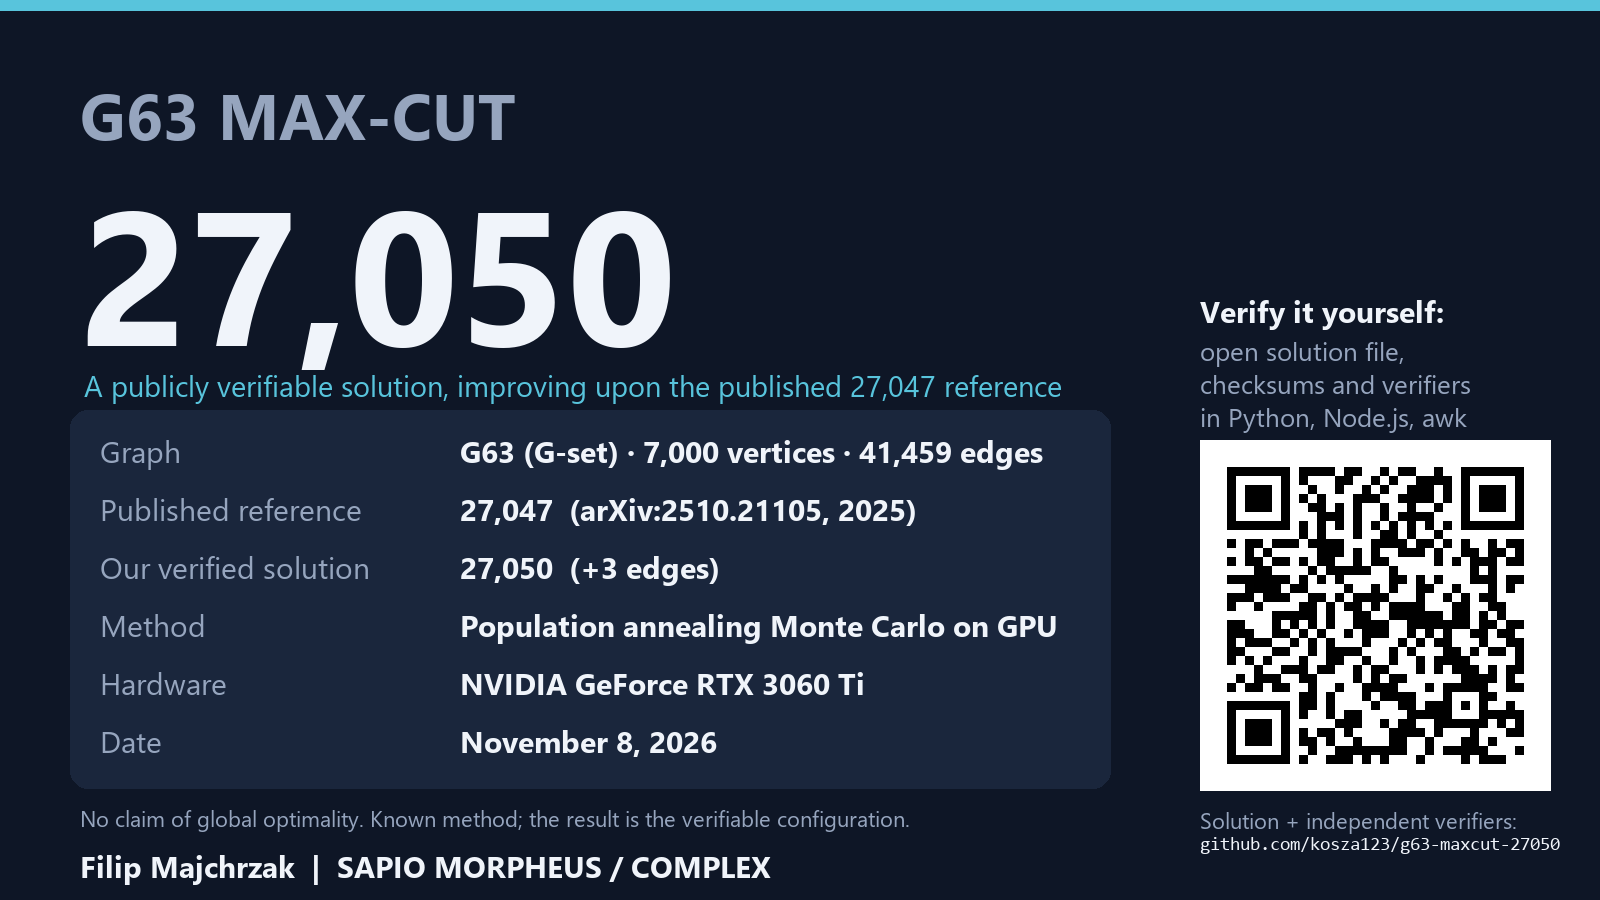
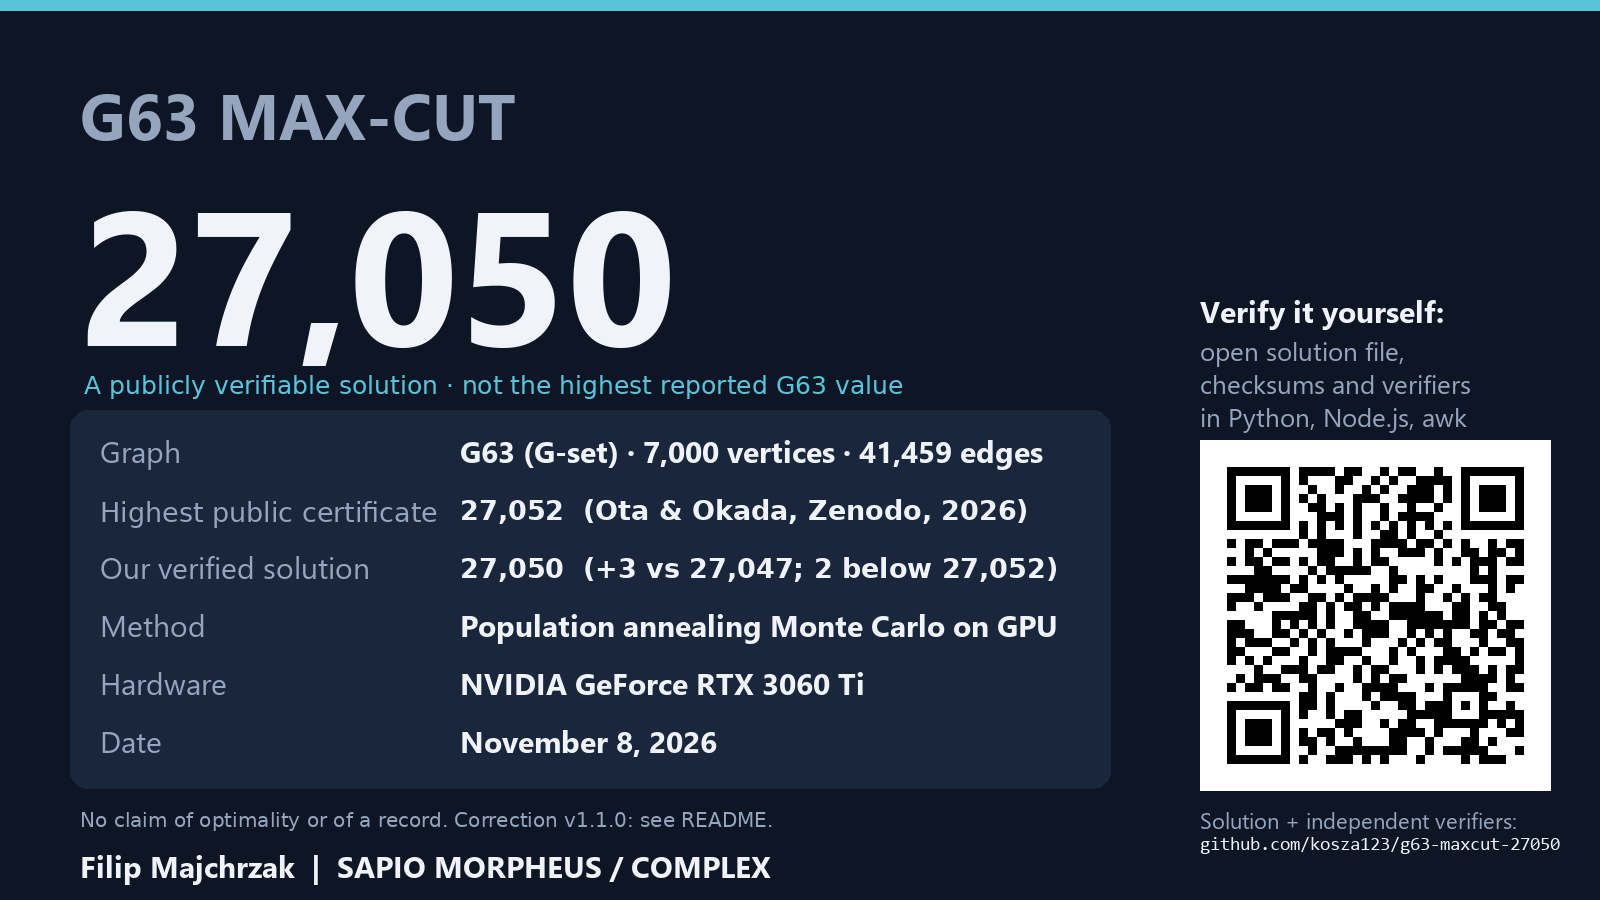
Correction v1.1.0: 27,050 is not the highest reported G63 value
Version 1.0.0 described 27,050 as an improvement on the published 27,047
reference and stated that every verifiable primary source listed at most
27,047 for G63. That was wrong: R. Ota and M. Okada published an explicit,
publicly verifiable configuration with cut value 27,052 on Zenodo on
23 March 2026 (doi:10.5281/zenodo.19189885). Reports of 27,052 for the
Fujitsu Digital Annealer (2020) and of 27,051 (2026) were pointed out by
other researchers; they are cited but marked as not verified by us.

Updates README, CITATION.cff, .zenodo.json, the preprint draft, the
graphic and results/STRUCTURE.md. The solution files, checksums and
verifiers are unchanged.

Claude-Session: https://claude.ai/code/session_0144bPPJ2WnHPmbzHaLsk2ow

diff --git a/paper/main.tex b/paper/main.tex
@@ -15,8 +15,11 @@
 \maketitle
 
 \begin{abstract}
-We report a Max-Cut configuration of value 27,050 for the G-set instance G63 (7,000 vertices, 41,459 unit-weight edges),
-improving upon the published reference value of 27,047. The configuration was found with population annealing Monte Carlo,
+We report a Max-Cut configuration of value 27,050 for the G-set instance G63 (7,000 vertices, 41,459 unit-weight edges).
+It exceeds the 27,047 configuration of Khan and Shukla but is not the highest reported value: an explicit public configuration of
+value 27,052 was published by Ota and Okada in March 2026, and an earlier report of 27,052 for the Fujitsu Digital Annealer has been
+pointed out to us.
+The configuration was found with population annealing Monte Carlo,
 a known method, implemented for a single consumer GPU (NVIDIA GeForce RTX 3060 Ti), 158.5 minutes into a seven-hour experiment.
 The complete partition, checksums and dependency-free verifiers are publicly available, so the value can be checked
 independently in under a second. Relative to the published 27,047 configuration, the new solution differs by a single connected
@@ -31,10 +34,14 @@ Max-Cut heuristics~\cite{benlic2013,shylo2015}. Instance G63 has 7,000 vertices 
 unit weights; it is one of the two G-set instances with the largest number of edges. For about a decade the best reported cut for G63
 was 27,045, attributed to global equilibrium search~\cite{shylo2015}. In 2025, Khan and Shukla reported 27,047 with a GPU-accelerated
 population annealing framework and published the corresponding configuration~\cite{khan2025}; a later preprint by the same group again
-lists 27,047 as the best value it achieved for G63~\cite{khan2026}.
+lists 27,047 as the best value it achieved for G63~\cite{khan2026}. In March 2026, however, Ota and Okada published an explicit,
+publicly verifiable configuration of value 27,052~\cite{otaokada2026}. Other researchers have pointed us to an earlier report of 27,052
+for the Fujitsu Digital Annealer~\cite{matsubara2020,takemoto2021}, without a published configuration, and to a report of
+27,051~\cite{ju2026}; we have not been able to verify these two values in the full texts.
 
-Here we present a configuration of value 27,050. Our contribution is computational: a verifiable configuration that exceeds the
-published reference, obtained with a standard method on consumer hardware, together with the data needed to check it.
+Here we present a configuration of value 27,050, found independently from random initial states. Our contribution is computational
+and modest: an independently found, verifiable configuration above 27,047, obtained with a standard method on consumer hardware,
+together with the data needed to check it. It is not a new best-known value.
 
 \section{The configuration and its verification}
 The partition is given as a string of 7,000 characters \texttt{0}/\texttt{1}, character $k$ being the side of vertex $k+1$ in the
@@ -106,9 +113,11 @@ during the run; we did not compare solvers on equal hardware. Population anneali
 in~\cite{khan2025} (runs that produced their best cut typically ran 8--24 hours on an RTX A6000) are run lengths under different
 settings, not comparable with our anneal times; no equal-hardware or equal-time comparison was made. We make no claim that 27,050 is optimal.
 
-All primary sources we could verify list at most 27,047 for G63~\cite{khan2025,khan2026}. A secondary aggregator page has been
-described in search-engine snippets as mentioning a value of 27,052; we could not access that page or locate a primary source or
-configuration. If such a configuration exists, it exceeds the value reported here.
+\paragraph{Correction to the first version of this draft.} An earlier version stated that all verifiable primary sources list at most
+27,047 for G63. That was incorrect: the explicit configuration of Ota and Okada~\cite{otaokada2026} has value 27,052 and is the highest
+publicly verifiable value known to us; we have also been pointed to reports of 27,052 for the Fujitsu Digital
+Annealer~\cite{matsubara2020,takemoto2021} and of 27,051 in~\cite{ju2026}. The Fujitsu and 27,051 reports were pointed out to us by K.~Zick and N.~Shukla; we have not been able to read
+these values in the full texts ourselves.
 
 \section*{Data availability}
 The partition, checksums, verifiers, verification log and methodology are archived on Zenodo,
@@ -120,7 +129,7 @@ tools and a first draft of this manuscript were produced with an AI assistant (C
 under the author's direction; three of the independent recounts were written by separate AI-agent instances without access to the
 search code. The author is responsible for the content.
 
-\begin{thebibliography}{9}
+\begin{thebibliography}{99}
 \bibitem{helmberg2000} C. Helmberg and F. Rendl, A spectral bundle method for semidefinite programming, \emph{SIAM Journal on Optimization} 10(3):673--696, 2000.
 \bibitem{gset} G-set Max-Cut test graphs, collection hosted by Y. Ye, Stanford University, \url{https://web.stanford.edu/~yyye/yyye/Gset/} (accessed November 2026).
 \bibitem{benlic2013} U. Benlic and J.-K. Hao, Breakout local search for the max-cut problem, \emph{Engineering Applications of Artificial Intelligence} 26(3):1162--1173, 2013.
@@ -130,5 +139,9 @@ search code. The author is responsible for the content.
 \bibitem{wang2015} W. Wang, J. Machta and H. G. Katzgraber, Population annealing: Theory and application in spin glasses, \emph{Physical Review E} 92:063307, 2015.
 \bibitem{khan2025} N. Khan and N. Shukla, New best-known Max-Cut solution for the G63 instance in the G-set benchmark, arXiv:2510.21105, 2025.
 \bibitem{khan2026} N. Khan, R. Redding and N. Shukla, Leveraging population dynamics to steer efficient search in large-scale combinatorial optimization, arXiv:2606.25203, 2026.
+\bibitem{matsubara2020} S. Matsubara, M. Takatsu, T. Miyazawa, T. Shibasaki, Y. Watanabe, K. Takemoto and H. Tamura, Digital annealer for high-speed solving of combinatorial optimization problems and its applications, in \emph{Proc. 25th Asia and South Pacific Design Automation Conference (ASP-DAC)}, pp.~667--672, IEEE, 2020, doi:10.1109/ASP-DAC47756.2020.9045100.
+\bibitem{takemoto2021} K. Takemoto, S. Matsubara, Y. Watanabe, D. Shimada, T. Kurita and H. Tamura, ``Digital Annealer'' technology for efficiently solving combinatorial optimization problems and its applications in manufacturing and materials science (in Japanese), \emph{IEICE Transactions on Electronics (Japanese Edition)} J104-C(4):101--109, 2021, doi:10.14923/transelej.2020jci0010.
+\bibitem{otaokada2026} R. Ota and M. Okada, An explicit public certificate for G63 with cut value 27,052, Zenodo, 23 March 2026, doi:10.5281/zenodo.19189885.
+\bibitem{ju2026} H. Ju, J. Seol, S. Choi and S. Hong, Hardware acceleration of probabilistic computing for Max-Cut problems, \emph{IEEE Access} 14:132813--132824, 2026, doi:10.1109/ACCESS.2026.3727846.
 \end{thebibliography}
 \end{document}

diff --git a/README.md b/README.md
@@ -2,7 +2,14 @@
 
 [![DOI](https://zenodo.org/badge/DOI/10.5281/zenodo.24049667.svg)](https://doi.org/10.5281/zenodo.24049667)
 
-**A publicly verifiable G63 Max-Cut solution of 27,050, improving upon the published 27,047 reference.**
+**A publicly verifiable G63 Max-Cut configuration of value 27,050.**
+
+> **Correction (version 1.1.0, November 2026).** Version 1.0.0 of this record described 27,050 as an improvement on the published
+> 27,047 reference and stated that every verifiable primary source listed at most 27,047 for G63. That was wrong. An explicit,
+> publicly verifiable G63 configuration with cut value **27,052** was published by Ota and Okada on 23 March 2026. Researchers have also
+> pointed us to earlier reports of 27,052 (Fujitsu Digital Annealer, 2020) and of 27,051 (2026), which we have not yet been able to verify
+> in the full texts. 27,050 is therefore **not** the highest reported value for G63. Details and citations:
+> [Status of reported G63 values](#status-of-reported-g63-values).
 
 **Can you verify it, or beat it?** The full partition is public and checking it takes under a second
 (see *Verify it yourself*). If you find an error or a higher cut, please open an issue.
@@ -12,8 +19,9 @@
 | | |
 |---|---|
 | Instance | G63 from the G-set benchmark (7,000 vertices, 41,459 unit-weight edges) |
-| Published reference | 27,047 — Khan & Shukla, arXiv:2510.21105 (2025) |
-| This solution | **27,050** (+3 edges) |
+| Highest publicly verifiable value known to us | **27,052** — Ota & Okada, Zenodo, 23 March 2026 ([doi:10.5281/zenodo.19189885](https://doi.org/10.5281/zenodo.19189885)) |
+| Reference used in version 1.0.0 | 27,047 — Khan & Shukla, arXiv:2510.21105 (2025) |
+| This solution | **27,050** (+3 edges relative to the 27,047 configuration; 2 below 27,052) |
 | Method | Population annealing Monte Carlo on a GPU (a known method; see [METHODOLOGY.md](METHODOLOGY.md)) |
 | Hardware | one NVIDIA GeForce RTX 3060 Ti (consumer GPU) |
 | Found | 8 November 2026, 02:13:52 CET, 158.5 minutes into a 7-hour experiment |
@@ -52,11 +60,30 @@ the published 27,047 configuration (hexadecimal string in arXiv:2510.21105, read
 
 ## What we claim — and what we do not
 
-- We claim a **verifiable configuration** with cut value 27,050 on G63, which exceeds the published 27,047 reference.
+- We claim a **verifiable configuration** with cut value 27,050 on G63. It exceeds the 27,047 configuration of Khan & Shukla,
+  but it is **not** the highest reported or the highest publicly verifiable value for G63 (see below).
 - We do **not** claim that 27,050 is optimal, and we do not claim a new algorithm: population annealing is a known method.
-- Status of other reports: every primary source we could verify lists at most 27,047 for G63 (arXiv:2510.21105; arXiv:2606.25203).
-  A secondary aggregator page has been described in search snippets as mentioning a value of 27,052; we could not access it
-  or find a primary source or configuration for it. If such a configuration exists, it would exceed 27,050.
+- The 27,050 configuration was found on 8 November 2026 from random initial states, before we were aware of the 27,052 reports,
+  and without using any 27,052 configuration.
+
+## Status of reported G63 values
+
+Reported values of at least 27,045 that we know of, in chronological order. As far as we know, configurations are public only for 27,047,
+27,050 and the 27,052 of Ota & Okada. Rows marked *not verified by us* rest on pointers from other researchers.
+
+| Value | Source | Configuration public? |
+|---|---|---|
+| 27,045 | Global equilibrium search: V. P. Shylo, F. Glover, I. V. Sergienko, *Cybernetics and Systems Analysis* 51(1):16–24, 2015, [doi:10.1007/s10559-015-9692-2](https://doi.org/10.1007/s10559-015-9692-2) (as credited in arXiv:2510.21105) | not known to us |
+| 27,052 (*not verified by us*) | Fujitsu Digital Annealer: S. Matsubara *et al.*, ASP-DAC 2020, pp. 667–672, [doi:10.1109/ASP-DAC47756.2020.9045100](https://doi.org/10.1109/ASP-DAC47756.2020.9045100); K. Takemoto *et al.*, IEICE Trans. Electron. (Japanese ed.) J104-C(4):101–109, 2021, [doi:10.14923/transelej.2020jci0010](https://doi.org/10.14923/transelej.2020jci0010) — see note | none known |
+| 27,047 | N. Khan, N. Shukla, arXiv:2510.21105 (October 2025); also listed in N. Khan, R. Redding, N. Shukla, arXiv:2606.25203 (June 2026) | yes |
+| 27,052 | R. Ota, M. Okada, *An Explicit Public Certificate for G63 with Cut Value 27,052*, Zenodo, 23 March 2026, [doi:10.5281/zenodo.19189885](https://doi.org/10.5281/zenodo.19189885) | **yes** — highest publicly verifiable value known to us |
+| 27,051 (*not verified by us*) | H. Ju, J. Seol, S. Choi, S. Hong, *Hardware Acceleration of Probabilistic Computing for Max-Cut Problems*, IEEE Access 14:132813–132824, 2026, [doi:10.1109/ACCESS.2026.3727846](https://doi.org/10.1109/ACCESS.2026.3727846) — see note | not known to us |
+| 27,050 | this record (8 November 2026) | yes |
+
+Note: the Fujitsu 27,052 reports and the 27,051 report were pointed out to us by Kenneth Zick (USC Information Sciences Institute)
+and Nikhil Shukla (University of Virginia). We have not been able to read these values in the full texts ourselves (paywall / access
+restrictions); the bibliographic data above are checked, the G63 values are not. The 27,052 of Ota & Okada is verified from their record.
+We thank both for their help in describing this result accurately.
 
 ## Use of AI
 
@@ -69,10 +96,11 @@ code. See [METHODOLOGY.md](METHODOLOGY.md).
 
 If you use this result, please cite the archived record:
 
-> Majchrzak, F. (2026). *G63 Max-Cut: a publicly verifiable solution of 27,050* (Version 1.0.0) [Data set]. Zenodo.
+> Majchrzak, F. (2026). *G63 Max-Cut: a publicly verifiable solution of 27,050* (Version 1.1.0) [Data set]. Zenodo.
 > https://doi.org/10.5281/zenodo.24049667
 
-The DOI above always resolves to the latest version; version 1.0.0 specifically is https://doi.org/10.5281/zenodo.24049668.
+The DOI above always resolves to the latest version. Version 1.0.0 (https://doi.org/10.5281/zenodo.24049668) contains the incorrect
+statement about other reports that is corrected in version 1.1.0.
 GitHub's "Cite this repository" uses `CITATION.cff`.
 
 ## Contact

diff --git a/results/STRUCTURE.md b/results/STRUCTURE.md
@@ -10,4 +10,4 @@ Reference: the 27,047 configuration published in arXiv:2510.21105 (hexadecimal p
 - The 27,050 solution is a 1-flip local optimum: no single vertex flip increases the cut (221 vertices have zero gain).
 
 The vertex list of the 1092-vertex component (1-based G-set numbering) is in `domain_1092_vertices.txt`.
-Interpretation: the improvement is a coordinated move of about one thousand vertices (a domain-wall-like rearrangement), not a small local modification.
+Interpretation: the improvement over the 27,047 configuration is a coordinated move of about one thousand vertices (a domain-wall-like rearrangement), not a small local modification.
